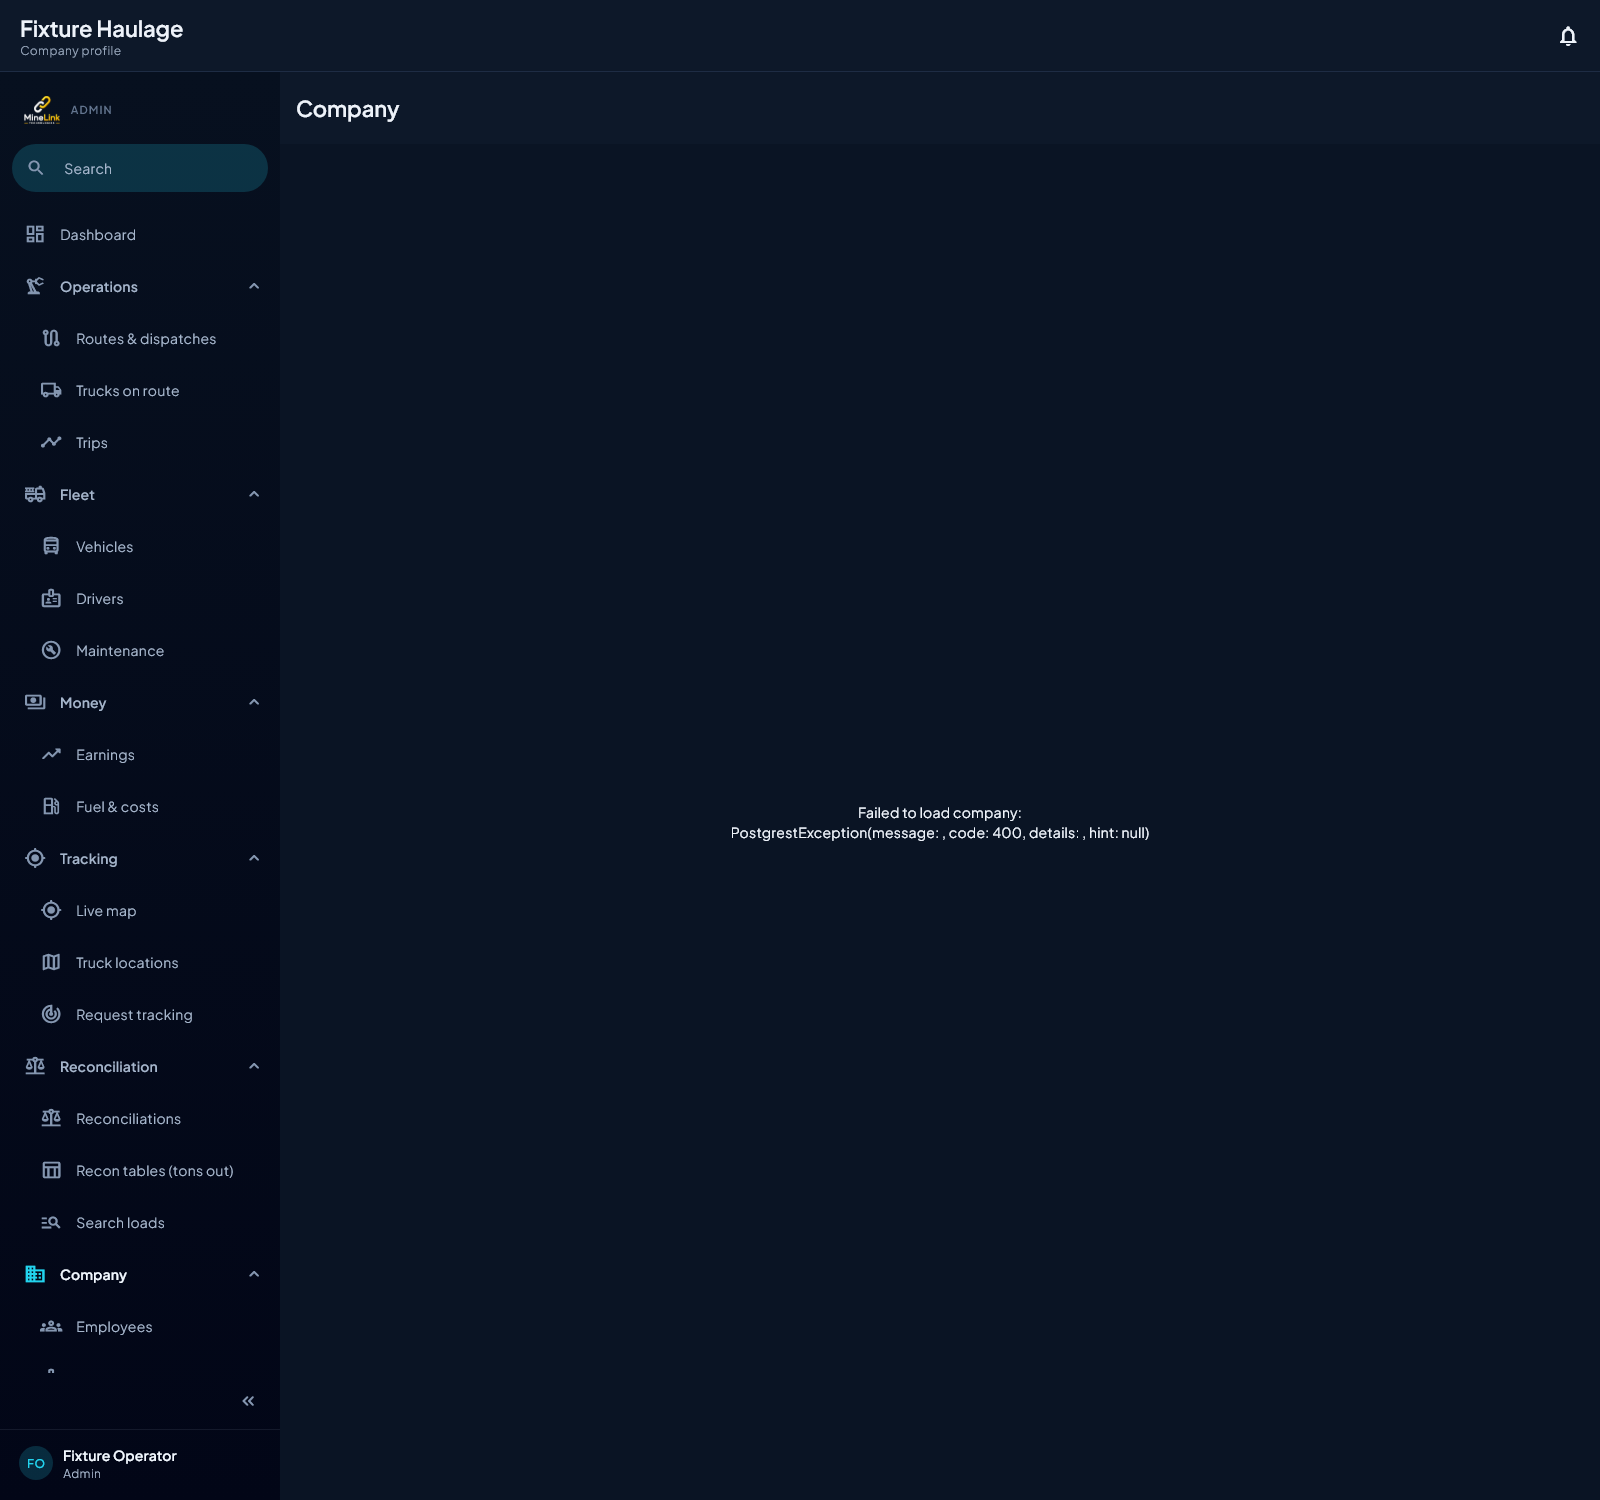
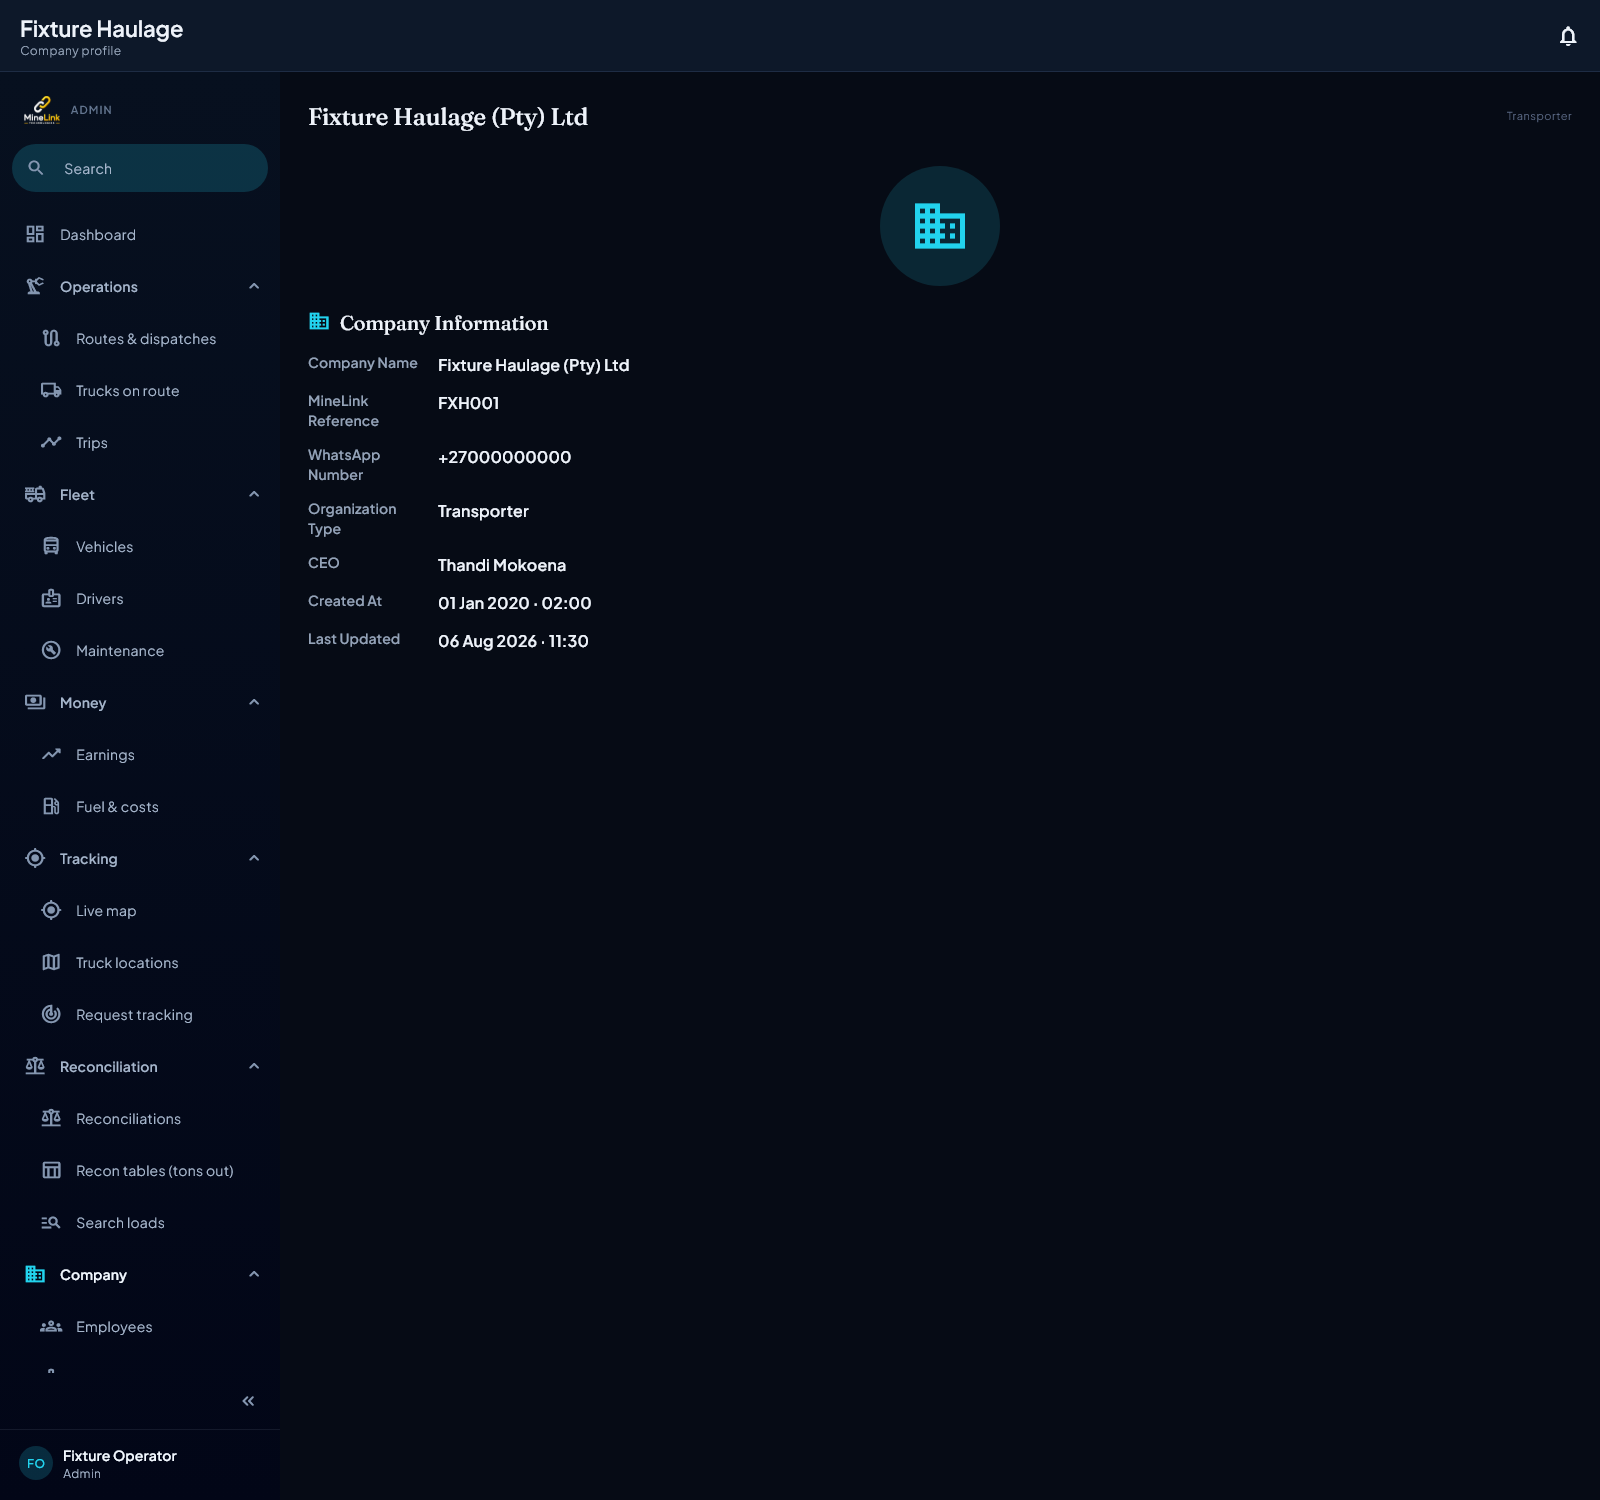
portal: the company profile was an error card, and a fourth org-type switch
I NEARLY SHIPPED A PICTURE OF A POSTGREST EXCEPTION. The first render of
`/portal/{org}/company` came out reading

    Failed to load company:
    PostgrestException(message: , code: 400, details: , hint: null)

under a "Company" app bar. `CompanyDetailsLoaderScreen` calls
`repository.getById()` inside a `FutureBuilder` rather than watching an
overridable data provider, so nothing in `companyScopeOverrides()` ever reached
it — and the render was written, the suite was green, and it would have been
counted as a screen photographed. CLAUDE.md §10.5, arrived at from the inside:
a green test over an error state proves nothing. `FixtureCompanyRepository` is
the seam.

WITH IT RENDERING, FOUR THINGS WERE VISIBLE AT ONCE.

  * A SECOND APP BAR. Both routes that reach this screen are leaves of the
    portal `ShellRoute`, so the shell had already drawn a top bar carrying the
    company's name — and its own `AppBar` put that name on the screen again
    directly underneath. Same fault the tons-out register had one commit ago;
    `MlPageBody` + `MlPageHeader` is the same fix.
  * `meta: company.orgType.name` — the enum's WIRE spelling. A transporter's
    own profile was captioned "transporter" and a mine's "mineSupplier".
  * A FOURTH private org-type switch (`_getOrgTypeLabel`), after the one
    removed from the organisation detail screen two commits ago and the two
    routed through `OrgType.labelFor`. `OrgType.label` is the one place.
[…]

diff --git a/lib/features/company/screens/company_list_screen.dart b/lib/features/company/screens/company_list_screen.dart
@@ -8,6 +8,7 @@ import 'package:flutter_application_1/core/widgets/infinite_list.dart';
 import 'package:flutter_application_1/core/utils/image_provider_utils.dart';
 import 'package:flutter_application_1/features/auth/models/user_type.dart';
 import 'package:flutter_application_1/core/design/components/ml_components.dart';
+import 'package:flutter_application_1/core/time/ml_time.dart';
 
 /// Provider for the company repository
 final companyRepositoryProvider = Provider<CompanyRepository>((ref) {
@@ -167,71 +168,75 @@ class CompanyDetailsScreen extends StatelessWidget {
 
   @override
   Widget build(BuildContext context) {
-    return Scaffold(
-      appBar: AppBar(title: Text(company.companyName)),
-      body: SingleChildScrollView(
-        padding: const EdgeInsets.all(24),
-        child: Column(
-          crossAxisAlignment: CrossAxisAlignment.start,
-          children: [
-            // Company logo
-            Center(
-              child: CircleAvatar(
-                radius: 60,
-                backgroundColor: MlTone.accent.well(
-                  Theme.of(context).brightness,
-                ),
-                backgroundImage: imageProviderFromString(company.logoUrl),
-                child: company.logoUrl == null
-                    ? const Icon(Icons.business, size: 60, color: MlTokens.accent)
-                    : null,
+    // NO SCAFFOLD AND NO APP BAR — this screen is a leaf of the portal
+    // `ShellRoute` (`/portal/{org}/company` and `/companies/…/details` both
+    // are), so the shell has already drawn a top bar carrying the company's
+    // name. Its own `AppBar` put that name on the screen a second time,
+    // directly underneath. Photographed 2026-08-21, the same fault the
+    // tons-out register had.
+    return MlPageBody(
+      child: Column(
+        crossAxisAlignment: CrossAxisAlignment.start,
+        children: [
+          MlPageHeader(
+            title: company.companyName,
+            // The org TYPE, in English. `company.orgType.name` is the enum's
+            // wire spelling — this meta line read "transporter" and
+            // "mineSupplier" on a company's own profile.
+            meta: company.orgType.label,
+          ),
+          const SizedBox(height: 16),
+          // Company logo
+          Center(
+            child: CircleAvatar(
+              radius: 60,
+              backgroundColor: MlTone.accent.well(
+                Theme.of(context).brightness,
               ),
+              backgroundImage: imageProviderFromString(company.logoUrl),
+              child: company.logoUrl == null
+                  ? const Icon(Icons.business, size: 60, color: MlTokens.accent)
+                  : null,
             ),
-            const SizedBox(height: 24),
+          ),
+          const SizedBox(height: 24),
 
-            // Company information
-            MlSectionTitle(
-              'Company Information',
-              icon: Icons.business_outlined,
-              // Not a count: this section is one company's record. Its org
-              // type is the fact that changes what every field below means,
-              // and it is the one thing not repeated as a labelled row.
-              meta: company.orgType.name,
-            ),
-            _buildInfoItem(context, 'Company Name', company.companyName),
-            // S8-11. The permanent, system-issued reference. Shown first
-            // because it is the thing to quote in a support call — and shown
-            // read-only because it is issued and immutable in the database
-            // (company_reg_ref_guard), not typed by anyone. Renders nothing
-            // for a company that predates the column rather than an empty row.
-            if (company.regRef != null)
-              _buildInfoItem(context, 'MineLink Reference', company.regRef!),
-            _buildInfoItem(context, 'WhatsApp Number', company.whatsappNumber),
+          // Company information
+          MlSectionTitle(
+            'Company Information',
+            icon: Icons.business_outlined,
+          ),
+          _buildInfoItem(context, 'Company Name', company.companyName),
+          // S8-11. The permanent, system-issued reference. Shown first
+          // because it is the thing to quote in a support call — and shown
+          // read-only because it is issued and immutable in the database
+          // (company_reg_ref_guard), not typed by anyone. Renders nothing
+          // for a company that predates the column rather than an empty row.
+          if (company.regRef != null)
+            _buildInfoItem(context, 'MineLink Reference', company.regRef!),
+          _buildInfoItem(context, 'WhatsApp Number', company.whatsappNumber),
+          // `OrgType.label`, not a fourth private switch. This file carried
+          // its own `_getOrgTypeLabel`, the organisation detail screen carried
+          // another, and the two did not even agree on the spacing around the
+          // slash.
+          _buildInfoItem(context, 'Organization Type', company.orgType.label),
+          if (company.ceoFirstName != null || company.ceoLastName != null)
             _buildInfoItem(
               context,
-              'Organization Type',
-              _getOrgTypeLabel(company.orgType),
+              'CEO',
+              '${company.ceoFirstName ?? ''} ${company.ceoLastName ?? ''}'
+                  .trim(),
             ),
-            if (company.ceoFirstName != null || company.ceoLastName != null)
-              _buildInfoItem(
-                context,
-                'CEO',
-                '${company.ceoFirstName ?? ''} ${company.ceoLastName ?? ''}'
-                    .trim(),
-              ),
+          // `MlTime.stamp`, not a hand-rolled `d/M/yyyy H:mm`. The old one was
+          // an eighth spelling of a moment in time, it printed the RAW
+          // instant with no conversion to the mine's clock, and it did not pad
+          // the hour — so a company created at 09:05 SAST read "7:5".
+          _buildInfoItem(context, 'Created At', MlTime.stamp(company.createdAt)),
+          if (company.updatedAt != null)
             _buildInfoItem(
-              context,
-              'Created At',
-              _formatDate(company.createdAt),
-            ),
-            if (company.updatedAt != null)
-              _buildInfoItem(
-                context,
-                'Last Updated',
-                _formatDate(company.updatedAt!),
-              ),
-          ],
-        ),
+                context, 'Last Updated', MlTime.stamp(company.updatedAt!)),
+          const SizedBox(height: 60),
+        ],
       ),
     );
   }
@@ -243,12 +248,21 @@ class CompanyDetailsScreen extends StatelessWidget {
       child: Row(
         crossAxisAlignment: CrossAxisAlignment.start,
         children: [
+          // Rides the text scaler. A flat 130px label column under a
+          // per-user type size squeezes the VALUE, which is the half a reader
+          // is here for — the same fault `MlColumn.minWidth` exists for.
           SizedBox(
-            width: 130,
-            child: Text(
-              label,
-              style: context.mlText.titleSmall.copyWith(
-                color: semantic.textMuted,
+            width: MediaQuery.textScalerOf(context).scale(130),
+            // A gutter, because a label that exactly fills its column touches
+            // the value: "WhatsApp Number+27000000000" with no space between
+            // them.
+            child: Padding(
+              padding: const EdgeInsets.only(right: 12),
+              child: Text(
+                label,
+                style: context.mlText.titleSmall.copyWith(
+                  color: semantic.textMuted,
+                ),
               ),
             ),
           ),
@@ -263,20 +277,5 @@ class CompanyDetailsScreen extends StatelessWidget {
         ],
       ),
     );
-  }
-
-  String _getOrgTypeLabel(OrgType orgType) {
-    switch (orgType) {
-      case OrgType.mineSupplier:
-        return 'Mine/Supplier';
-      case OrgType.buyer:
-        return 'Buyer';
-      case OrgType.transporter:
-        return 'Transporter';
-    }
-  }
-
-  String _formatDate(DateTime date) {
-    return '${date.day}/${date.month}/${date.year} ${date.hour}:${date.minute.toString().padLeft(2, '0')}';
   }
 }

diff --git a/test/fixtures/portal_tail_fixtures.dart b/test/fixtures/portal_tail_fixtures.dart
@@ -17,6 +17,10 @@
 
 import 'package:flutter_riverpod/flutter_riverpod.dart';
 
+import 'package:flutter_application_1/core/mcp/models/company_model.dart';
+import 'package:flutter_application_1/core/mcp/repositories/company_repository.dart';
+import 'package:flutter_application_1/features/auth/models/user_type.dart';
+import 'package:flutter_application_1/features/company/screens/company_list_screen.dart';
 import 'package:flutter_application_1/features/portal/models/available_route.dart';
 import 'package:flutter_application_1/features/portal/models/compliance_document.dart';
 import 'package:flutter_application_1/features/portal/models/fuel_models.dart';
@@ -40,6 +44,7 @@ import 'package:flutter_application_1/features/portal/providers/request_provider
 import 'package:flutter_application_1/features/portal/services/logistics_service.dart';
 
 import 'portal_capture_fixtures.dart';
+import 'screen_fixtures.dart';
 
 DateTime _ago(Duration d) => kCaptureNow.subtract(d);
 
@@ -685,6 +690,48 @@ final List<VehicleCostBreakdown> kVehicleCosts = const [
 ];
 
 // ---------------------------------------------------------------------------
+// The company profile — read through a REPOSITORY, not a provider
+// ---------------------------------------------------------------------------
+
+/// `CompanyDetailsLoaderScreen` calls `repository.getById()` inside a
+/// `FutureBuilder` rather than watching an overridable data provider, so
+/// nothing in `companyScopeOverrides()` reaches it. Un-faked it photographed
+///
+///     Failed to load company:
+///     PostgrestException(message: , code: 400, details: , hint: null)
+///
+/// under a "Company" app bar — an error card standing in for the design, which
+/// is the one thing CLAUDE.md §10.5 says a render must never be.
+///
+/// The seam is the repository provider. Subclassing rather than implementing
+/// an interface, because `SupabaseRepository` has a wide surface and this
+/// screen calls exactly one method of it.
+class FixtureCompanyRepository extends CompanyRepository {
+  FixtureCompanyRepository(this.company);
+
+  final CompanyMCP company;
+
+  @override
+  Future<CompanyMCP> getById(String id) async => company;
+}
+
+CompanyMCP fixtureCompanyRecord({OrgType orgType = OrgType.transporter}) {
+  final base = fixtureCompany(orgType: orgType);
+  return CompanyMCP(
+    id: base.id,
+    userId: base.userId,
+    companyName: base.companyName,
+    whatsappNumber: base.whatsappNumber,
+    orgType: base.orgType,
+    createdAt: base.createdAt,
+    updatedAt: _ago(const Duration(days: 9)),
+    ceoFirstName: 'Thandi',
+    ceoLastName: 'Mokoena',
+    regRef: 'FXH001',
+  );
+}
+
+// ---------------------------------------------------------------------------
 // The override list
 // ---------------------------------------------------------------------------
 
@@ -716,4 +763,6 @@ List<Override> portalTailOverrides() => [
           .overrideWith((ref, _) async => kOperatingCosts),
       vehicleCostBreakdownProvider
           .overrideWith((ref, _) async => kVehicleCosts),
+      companyRepositoryProvider
+          .overrideWithValue(FixtureCompanyRepository(fixtureCompanyRecord())),
     ];
